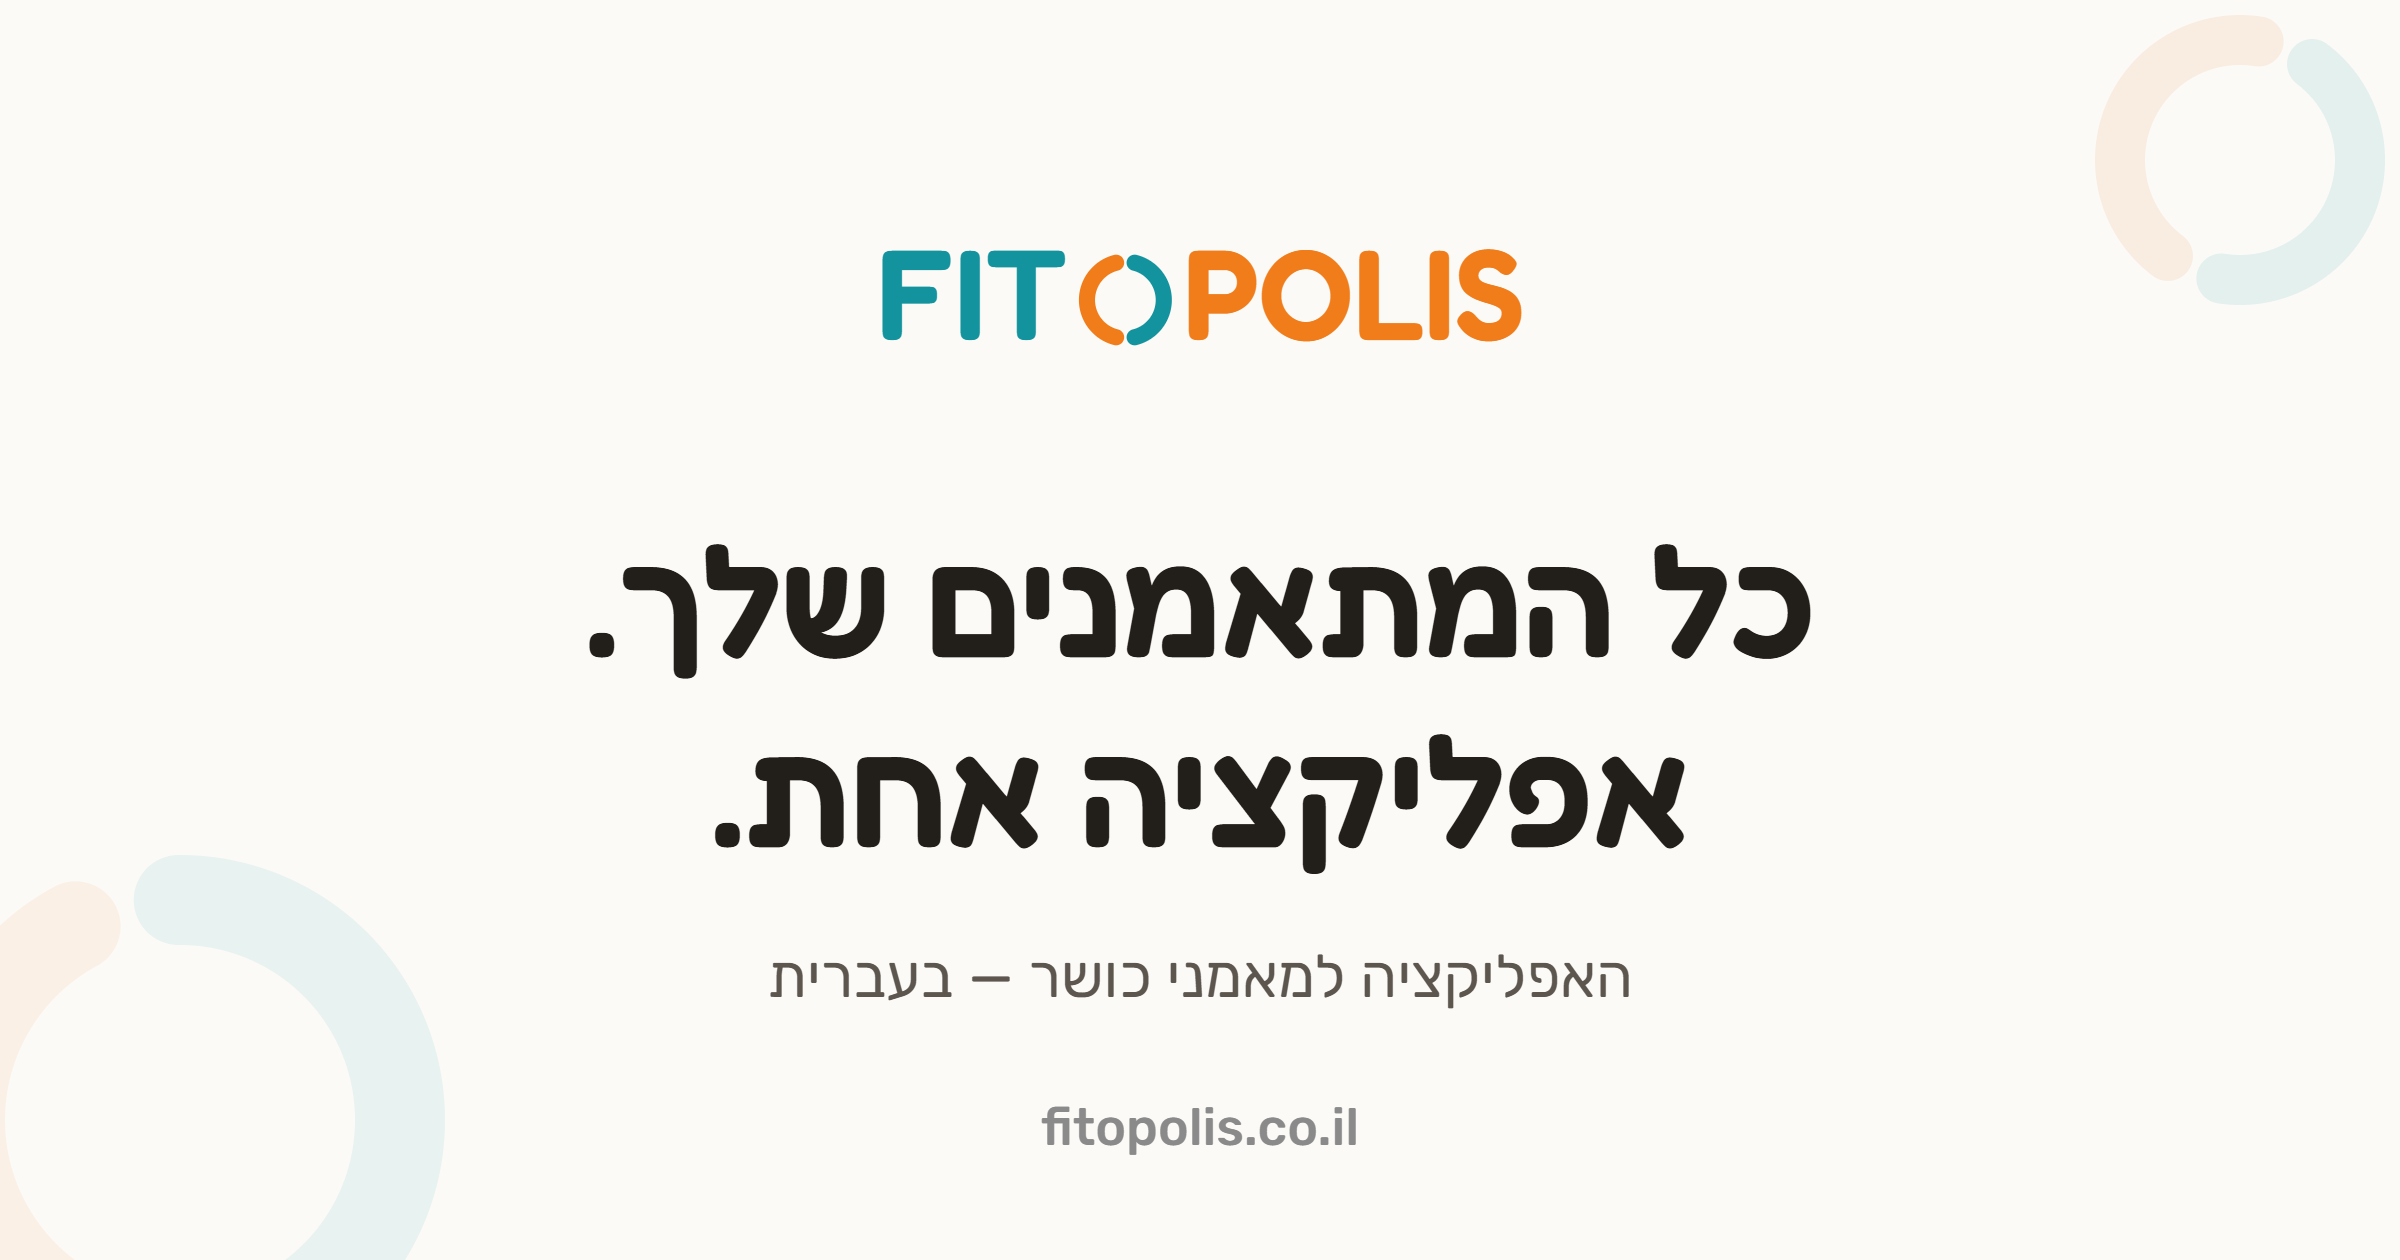
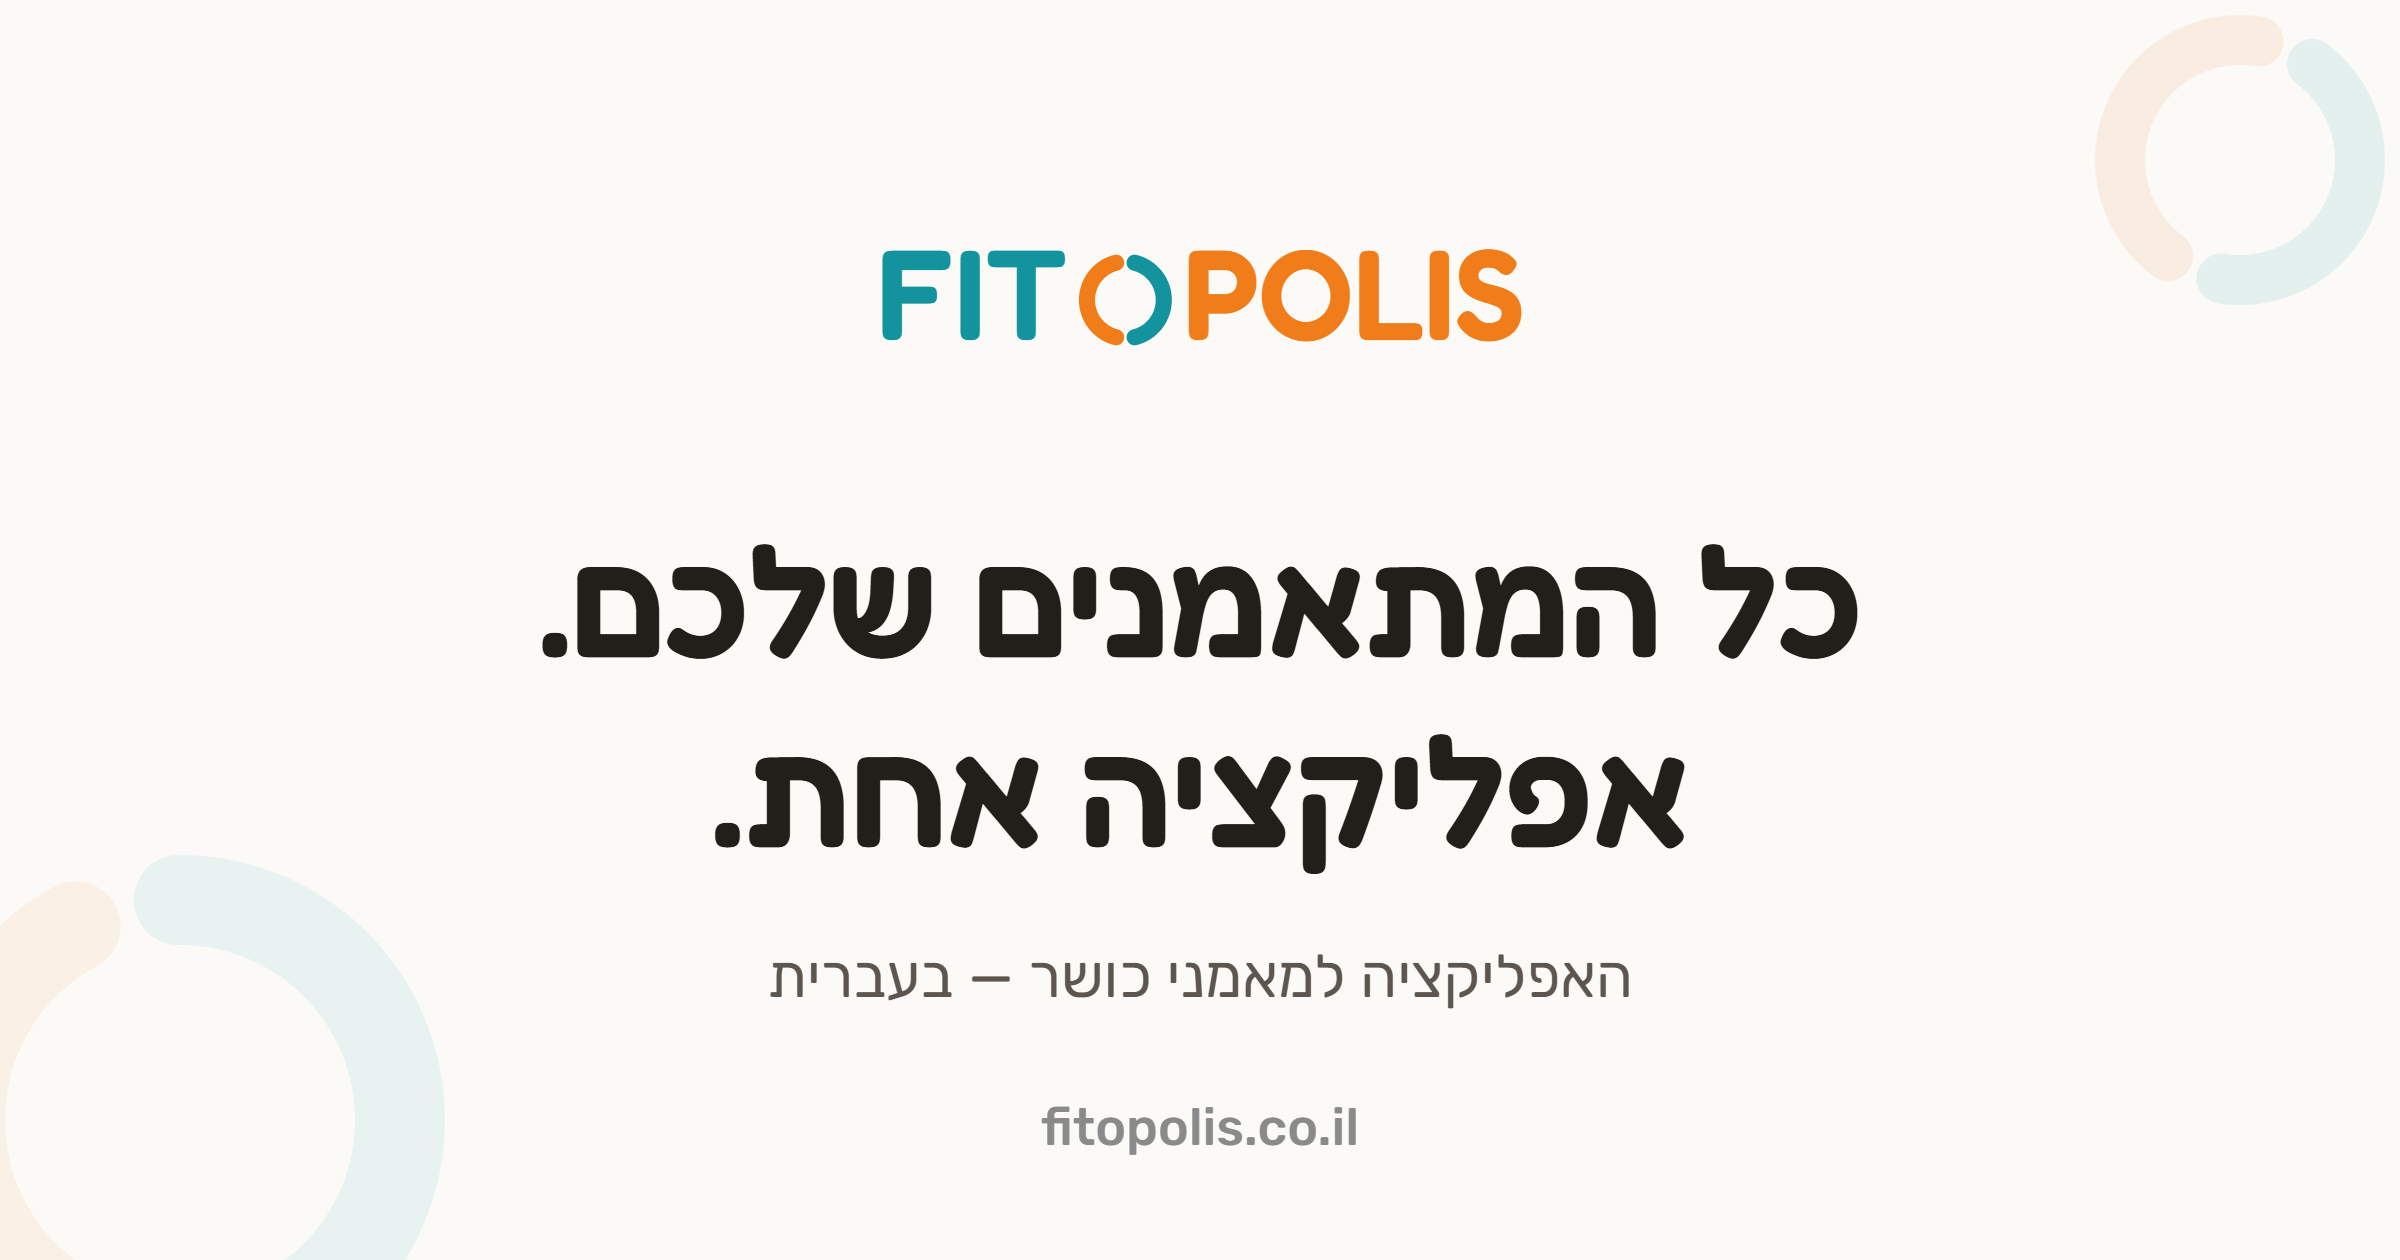
קופי: איחוד כל האתר ללשון רבים
שלושה קולות התנגשו — 'אתה מנהל' (יחיד), 'צרו קשר' (רבים), 'דברו איתי'
(גוף ראשון). הכל אוחד לרבים, שגם נייטרלי מגדרית. 'דברו איתי' בבאנד
הסגירה נשאר לפי הכרעת הבעלים. תמונת השיתוף רונדרה מחדש עם הכותרת החדשה.

Changed region(s): [[0.2188, 0.4333, 0.7812, 0.5571]]

diff --git a/index.html b/index.html
@@ -3,11 +3,11 @@
 <head>
   <meta charset="utf-8">
   <meta name="viewport" content="width=device-width, initial-scale=1">
-  <title>פיטופוליס — כל המתאמנים שלך. אפליקציה אחת.</title>
-  <meta name="description" content="תוכניות אימון ותזונה, פגישות, צ'אט ומעקב תשלומים — הניהול המלא של העסק שלך כמאמן, בעברית, במקום אחד.">
+  <title>פיטופוליס — כל המתאמנים שלכם. אפליקציה אחת.</title>
+  <meta name="description" content="תוכניות אימון ותזונה, פגישות, צ'אט ומעקב תשלומים — הניהול המלא של העסק שלכם כמאמנים, בעברית, במקום אחד.">
   <meta property="og:type" content="website">
-  <meta property="og:title" content="פיטופוליס — כל המתאמנים שלך. אפליקציה אחת.">
-  <meta property="og:description" content="הניהול המלא של העסק שלך כמאמן — תוכניות אימון, תזונה, פגישות, צ'אט ותשלומים. בעברית.">
+  <meta property="og:title" content="פיטופוליס — כל המתאמנים שלכם. אפליקציה אחת.">
+  <meta property="og:description" content="הניהול המלא של העסק שלכם כמאמנים — תוכניות אימון, תזונה, פגישות, צ'אט ותשלומים. בעברית.">
   <meta property="og:url" content="https://fitopolis.co.il/">
   <meta property="og:locale" content="he_IL">
   <meta property="og:image" content="https://fitopolis.co.il/assets/og-image.png">
@@ -48,8 +48,8 @@
     <div class="container hero-inner">
       <div class="hero-copy">
         <span class="hero-chip reveal"><span class="dot"></span>בקרוב ב-Google Play וב-App Store</span>
-        <h1 class="reveal d1">כל המתאמנים שלך.<br>אפליקציה אחת.</h1>
-        <p class="sub reveal d2">תוכניות אימון ותזונה, פגישות, צ'אט ומעקב תשלומים — הניהול המלא של העסק שלך כמאמן, בעברית, במקום אחד.</p>
+        <h1 class="reveal d1">כל המתאמנים שלכם.<br>אפליקציה אחת.</h1>
+        <p class="sub reveal d2">תוכניות אימון ותזונה, פגישות, צ'אט ומעקב תשלומים — הניהול המלא של העסק שלכם כמאמנים, בעברית, במקום אחד.</p>
         <a class="btn btn-primary reveal d4" href="mailto:fitopolis.contact@gmail.com">צרו קשר</a>
         <p class="note reveal d5">עוד אין הרשמה ואין רשימת המתנה — האפליקציה בהרצה עם מאמנים ראשונים.</p>
       </div>
@@ -137,11 +137,11 @@
   <!-- ══ שני צדדים ══ -->
   <section class="sides">
     <div class="container">
-      <h2 class="section-title scroll-reveal">אתה מנהל. הם מתאמנים.</h2>
+      <h2 class="section-title scroll-reveal">אתם מנהלים. הם מתאמנים.</h2>
       <div class="sides-grid">
         <div class="side-card side-trainer scroll-reveal">
           <span class="voice-dot voice-trainer"></span>
-          <h3>הצד שלך</h3>
+          <h3>הצד שלכם</h3>
           <ul>
             <li>תמונת מצב של כל המתאמנים במבט אחד</li>
             <li>עריכת תוכניות ותפריטים מכל מקום</li>
@@ -150,11 +150,11 @@
         </div>
         <div class="side-card side-trainee scroll-reveal">
           <span class="voice-dot voice-trainee"></span>
-          <h3>הצד של המתאמן שלך</h3>
+          <h3>הצד של המתאמן שלכם</h3>
           <ul>
             <li>האימון והתפריט של היום, ברור ופשוט</li>
             <li>סימון ביצוע בלחיצה אחת</li>
-            <li>צ'אט ישיר אליך כשצריך אותך</li>
+            <li>צ'אט ישיר אליכם כשצריך אתכם</li>
           </ul>
         </div>
       </div>

diff --git a/invite/index.html b/invite/index.html
@@ -3,12 +3,12 @@
 <head>
   <meta charset="utf-8">
   <meta name="viewport" content="width=device-width, initial-scale=1">
-  <title>הוזמנת לפיטופוליס</title>
-  <meta name="description" content="המאמן שלך הזמין אותך לפיטופוליס. הורידו את האפליקציה וקוד ההזמנה יחכה לכם.">
+  <title>הוזמנתם לפיטופוליס</title>
+  <meta name="description" content="המאמן שלכם הזמין אתכם לפיטופוליס. הורידו את האפליקציה וקוד ההזמנה יחכה לכם.">
   <meta name="robots" content="noindex">
   <meta property="og:type" content="website">
-  <meta property="og:title" content="הוזמנת לפיטופוליס">
-  <meta property="og:description" content="המאמן שלך הזמין אותך. הורידו את האפליקציה כדי להתחיל.">
+  <meta property="og:title" content="הוזמנתם לפיטופוליס">
+  <meta property="og:description" content="המאמן שלכם הזמין אתכם. הורידו את האפליקציה כדי להתחיל.">
   <meta property="og:image" content="https://fitopolis.co.il/assets/og-image.png">
   <meta property="og:locale" content="he_IL">
   <meta name="theme-color" content="#F07C1A">
@@ -33,11 +33,11 @@
     <svg viewBox="0 0 100 100"><path d="M 41.8 17 A 34 34 0 0 0 41.8 83" fill="none" stroke="#F07C1A" stroke-width="14" stroke-linecap="round"/><path d="M 58.2 17 A 34 34 0 0 1 58.2 83" fill="none" stroke="#12939D" stroke-width="14" stroke-linecap="round"/></svg>
   </span>
 
-  <h1>הוזמנת לפיטופוליס</h1>
-  <p class="lead">המאמן שלך מנהל את האימונים והתזונה שלך בפיטופוליס. הורידו את האפליקציה — וקוד ההזמנה כבר יחכה לכם בפנים.</p>
+  <h1>הוזמנתם לפיטופוליס</h1>
+  <p class="lead">המאמן שלכם מנהל את האימונים והתזונה שלכם בפיטופוליס. הורידו את האפליקציה — וקוד ההזמנה כבר יחכה לכם בפנים.</p>
 
   <div class="invite-code-card" data-invite-card hidden>
-    <span class="invite-code-label">קוד ההזמנה שלך</span>
+    <span class="invite-code-label">קוד ההזמנה שלכם</span>
     <span class="invite-code" data-invite-code dir="ltr"></span>
     <button class="invite-copy" type="button" data-invite-copy>העתקת הקוד</button>
   </div>
